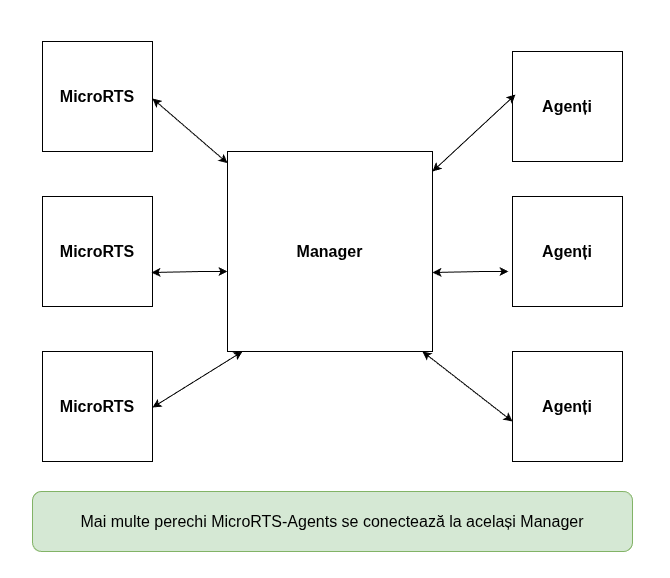
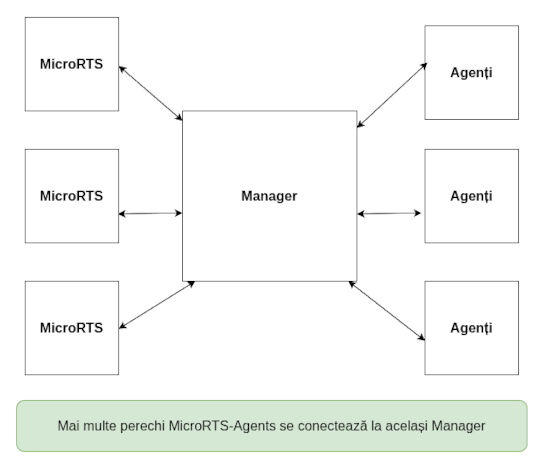
Updated IdeiDeBaza.tex and MicroRTS-Agents_Pair_Multiple_Instances.png

diff --git a/docs/Notes/tex/IdeiDeBaza.tex b/docs/Notes/tex/IdeiDeBaza.tex
@@ -3,11 +3,14 @@
 
 % Packages
 \usepackage{hyperref}
+\usepackage{color}
 \usepackage{graphics}
 \graphicspath{ {../images/} }
 
+% Title & author
 \title{Idei De bază pentru teza de Dizertație}
 \author{Marius-Vlad Dumitru}
+
 % Document
 \begin{document}
 \maketitle
@@ -21,7 +24,7 @@ Am fost mereu pasionat de jocurile video, iar RL/DRL se pretează pentru așa ce
 
 Prin urmare am intenționat să dezvolt agenți RL/DRL pentru un joc video.
 
-Prima provocare a fost alegera unui joc.
+Prima provocare a fost alegerea unui joc.
 
 \section{Alegerea Jocului}
 M-am orientat către un joc de strategie, de tip RTS(Real Time Strategy), întrucât acest tip de joc se pretează pentru studiul RL/DRL, iar personal am jucat câteva jocuri de strategie precum Starcraft, Starcraft 2, Warcraft 3, Age of Empires, etc.
@@ -38,63 +41,245 @@ Jocul pe care l-am ales să îl folosesc în experimente este MicroRTS, versiune
 
 Am ales acest joc din următoarele motive:
 \begin{enumerate}
-\item \textbf{Este mai simplu din punct de vedere al RL/DRL. Nu este la fel de complex precum Starcraft/Starcraft 2/Warcraft 3}. Fiind mai simplu, este mai ușor de lucrat cu el și posibilitatea de a greși este mai mică. Spațiile alea (acțiuni, stări, etc.) sunt mult mai mici față de Warcraft 3/Starcraft/Starcraft2.
-\item Deși mai simplu decât jocurile Blizzard, este "good enough" de complex pentru experimente de tip RL/DRL.
-\item Există paper-uri publicate folosing MicroRTS.
-\item Este open-source, deci codul sursă este disponibil și este permisă modificarea și redistribuția sa.
-\item Are deja boți predefiniți în joc pe care îi pot folosi.
-\item Este special construit pentru experimente de tip RL/DRL.
+    \item \textbf{Este mai simplu din punct de vedere al RL/DRL. Nu este la fel de complex precum Starcraft/Starcraft 2/Warcraft 3}. Fiind mai simplu, este mai ușor de lucrat cu el și posibilitatea de a greși este mai mică. Spațiile alea (acțiuni, stări, etc.) sunt mult mai mici față de Warcraft 3/Starcraft/Starcraft2.
+
+    \item Deși mai simplu decât jocurile Blizzard, este "good enough" de complex pentru experimente de tip RL/DRL.
+
+    \item Există paper-uri publicate folosind MicroRTS.
+
+    \item Este open-source, deci codul sursă este disponibil și este permisă modificarea și redistribuția sa.
+
+    \item Are deja boți predefiniți în joc pe care îi pot folosi.
+
+    \item Este special construit pentru experimente de tip RL/DRL.
 \end{enumerate}
 
 \section{Scopul Final}
 Urmăresc să studiez partea de RL/DRL prin efectuarea de diverse experimente folosind MicroRTS si agent de Rl/DRL care să joace meciuri în acest joc.
 
-Deci trebuie să efectuez diverse experimente.
+Prin urmare, este nevoie să efectuez diverse experimente.
+
+\section{Ce este un experiment}
+
+Un experiment înseamnă: \textbf{\color{red}{Unul sau mai multe meciuri de MicroRTS, jucate fie Agenți-Agenți, fie Agenți-AI default din joc, în diverse configurații.} }\\
+
+\underline{Parametrii de configurare ai unui experiment sunt}:
+\begin{enumerate}
+    \item \textbf{ Numele experimentului }. Acesta reprezintă si un ID care identifică unic experimentul, de tip string. Este obligatorie precizarea unui nume al experimentului, altfel sistemul dă eroare pentru că el identifică unic experientul.
+
+    \item \textbf{ Numărul de meciuri jucate în cadrul experimentului }. Este un număr întreg, $>=1$ (valoarea default 1).
+
+    \item \textbf{ Configurația proprie a fiecărui meci }.
+\end{enumerate}
+
+\underline{Parametrii de configurare ai unui meci sunt}:
+\begin{enumerate}
+    \item \textbf{ Numărul de jucători }(Număr întreg, $>=2$, valoarea default 2):
+
+    Momentan jocul este hardcodat pentru 2 jucători.
+
+    Fă lucrurile să funcționeze pentru 2 jucători și DACA MAI RĂMÂNE TIMP, fă modificările necesare pentru mai mult de 2 jucători.
+
+    Menține această idee, numărul de jucători, ca parametru pentru experimente, chiar dacă el va fi întotdeauna 2.
+
+    \item \textbf{Jucătorii în sine - cine sunt jucătorii ??}
+
+    Indică, în clar, cine este fiecare jucător în parte. Un jucător poate fi un agent dezvoltat în cadrul proiectului SAU un AI default din joc.
+
+    Dacă un jucător este AI-ul default din joc, gestionarea sa nu mai este făcută de modulul "Agenți" ci de Manager.
+
+    \item \textbf{ Harta}:
+
+        Harta este definită ca grid(celule).
+
+        O celulă din hartă poate avea 2 stări:
+        \begin{itemize}
+            \item \textbf{liberă}: Poate fi tranzitată de către o unitate a oricărui jucător, oricare din jucători poate construi o clădire proprie pe ea, oricare jucători pot construi zid pe ea(dacă au această posibilitate).
+
+            \item \textbf{ocupată}: Nu poate fi tranzitată de nicio unitate, conține o clădire, conține o unitate, conține un zid.
+        \end{itemize}
+
+        Zidurile de pe hartă nu permit tranzitarea de către unități și construcția de noi clădiri în interiorul celulelor pe care le ocupă.
+
+        O singură celulă poate fi ocupată doar de o singură entitate. Nu poate fi ocupată de două entități simultan. Prin entitate se înțelege zid, clădire, unitate.
+
+        Fiecare celulă este identificabilă prin linia și coloana sa, prin urmare o poziție este identificabilă prin linia și coloana sa, linia i, coloana j.
+
+        nr-cel-orizontală, nr întreg, $>=1$, nr-cel-verticală, nr întreg, $>=1$.
+
+        Dimensiunea hărții este exprimată în numărul de celule pe orizontală și numărul de celule pe verticală, nr-cel-orizontală x nr-cel-verticală.
+
+        Dimensiunea minimă a unei hărți: 1 x 1 (o singură celulă)
+
+        \textbf{Parametrii unei hărți sunt}:
+        \begin{enumerate}
+            \item \textbf{Numele Hărții}.
+
+                Este un string. Trebuie obligatoriu precizat altfel sistemul dă eroare.
+
+            \item \textbf{Numele fișierului hărții (inclusiv extensia)}.
+
+                Este un string. Trebuie obligatoriu precizat alfel sistemul dă eroare.
+
+            \item \textbf{Calea absolută către fișierul hărții (inclusiv numele fișierului hărții - exprimat anterior)}.
+
+                Este un obiect de tip pathlib.Path inițializat cu un string care conține calea absolută către fișierul hărții. Trebuie obligatoriu precizat altfel sistemul dă eroare.
+
+            \item \textbf{Dimensiunea hărții}.
+
+                Este nr-cel-orizontală x nr-cel-verticală.
+
+                Stocat ca un tuplu de 2 int-uri, nr întregi $>=1$. Le stochezi separat și pe cele 2 int-uri și cu ele formezi tuplul, (nr-cel-orizontală, nr-cel-verticală).
+
+                \underline{nr-cel-orizontală}: numărul de celule pe orizontală, nr întreg, $>=1$
+
+                \underline{nr-cel-verticală}: numărul de celule pe orizontală, nr întreg, $>=1$
+
+                Daca valorile nu sunt precizate, se consideră valoarea default 1.
+
+            \item \textbf{Configurația hărții }:
+                \begin{enumerate}
+                    \item \textbf{Pozițiile de la începutul meciului ale}:
+                    \begin{itemize}
+                        \item nodurilor de resurse.
+
+                        \item zidurilor.
+
+                        \item clădirilor inițiale ale jucătorilor.
+
+                        \item unităților inițiale jucătorilor.
+                    \end{itemize}
+
+                    \item \textbf{Valorile inițiale pentru}:
+                          \begin{itemize}
+                            \item Fiecare nod de resurse în parte. (câte resurse are fiecare nod în parte.). Probabil număr întreg pozitiv $>=1$, dar verifica în cod.
+
+                            \item Toate atributele clădirilor inițiale ale jucătorilor. (health, armor, etc. - nu stiu încă cât de mult se aplică dar sigur sigut trebuie să fie.) . Probabil numere întregi pozitive $>=1$, verifică în cod
+
+                            \item Toate atributele unităților inițiale ale jucătorilor. (health, mana, attack damage, attack speed, armor, etc. - la fel nu stiu cat de mult se aplica dar sigur trebuie să fie.). Probabil numbere întregi pozitive $>=1$, verifică în cod.
+                          \end{itemize}
+                \end{enumerate}
+        \end{enumerate}
+
+    \item \textbf{Win Conditions - Condițiile de câștig ale meciului}
+
+        Trebuiesc precizate obligatoriu pentru meciul curent altfel sistemul dă eroare.
+
+        Pot fi una sau mai multe.
+
+        Se vor folosi din constrângeri prin crearea unuia sau mai multe grupuri de constrângeri de "Win Conditions".
+
+        Cu alte cuvinte, "Win Conditions" sunt constrângeri care spun ce trebuie făcut de către jucători pentru a câștiga meciul.
+
+        Fiind un grup de constrângeri, pentru câștigarea meciului, trebuiesc îndeplinite toate condițiile din grup.
+
+        Dacă nu sunt îndeplinite toate condițiile sau condiția din grup atunci meciul se consideră pierdut, în caz contrar meciul se consideră câștigat.
+
+    \item \textbf{Constrângerea sau grupul de constrângeri aplicabile asupra meciului curent}.
+
+        Cu alte cuvinte, pentru fiecare meci, în parte, din experiment, trebuie precizat în clar ori o constrângere individuală ori un grup de constrângeri.
+
+        Nu este obligatoriu ca un meci să aibă precizate constrângeri dar este obligatoriu ca el să aibă precizate "Win conditions"
+
+\end{enumerate}
+
+Experimentele vor fi stocate sub formă de fișier .json.
+
+\section{Constrângeri}
+O constrângere înseamnă o singură condiție(limitare), impusă asupra:
+\begin{itemize}
+    \item Unui singur jucător.
+    \item Mai multor jucători.
+    \item Tuturor jucătorilor.
+    \item Hărții.
+\end{itemize}
+
+Constrângerile pot fi grupate în grupuri. Un grup de constrângeri poate conține una sau mai multe constrângeri individuale.
+
+În cadrul experimentelor, o singură constrângere individuală sau un singur grup de constrângeri pot fi aplicate asupra unui singur meci.
+
+Pentru un grup de constrângeri, toate constrângerile componente ale grupului trebuiesc îndeplinite cumulativ, nu în același timp.
+
+La modul gene
+
+Constrângerile unui grup de constrângeri nu trebuie să fie în conflict între ele.
+
+Exemplu de constrângeri individuale:
+\begin{itemize}
+\item Limită de timp pentru unul/mai mulți/toți jucătorii.
+\end{itemize}
 
 \section{Setup-ul experimental}
-\subsection{Ingredientele Setup-ului experimental}
-Setup-ul experimental este format din 3 ingrediente:
+\subsection{Elementele Setup-ului experimental}
+Setup-ul experimental este format din 3 elemente:
 \begin{enumerate}
 \item \textbf{Jocul MicroRTS sub formă de fișier .jar(MicroRTS.jar)}
+
 \item \textbf{Managerul}
+
 \item \textbf{Agenții}
 \end{enumerate}
 
-Cele 3 elemente ale setup-ului experimental comunică între ele prin rețea, adică protocolul TCP/UDP/TCP+UDP-IP (nu știu acum daca folosesc doar TCP, doar UDP sau TCP+UDP, dar știu sigur că vreau ca cele 3 elemente să comunice exclusiv prin rețea), pe baza modelului \textbf{client-server}, folosind sockets.
+Fiecare din cele 3 elemente ale setup-ului experimental comunică cu celelalte(exteriorul) numai prin rețea(TCP/UDP/TCP+UDP și IP. Nu știu acum dacă TCP, UDP, TCP+UDP).
 
-\includegraphics{ElementsCommunication.png}
+\includegraphics{ElementsCommunication}
 
-Din cauza faptului că cele 3 elemente comunică între ele prin rețea(TCP/UDP + IP), putem avea mai multe instanțe de MicroRTS-Agenți, ele formând perechi.
+Agenții rulează \textbf{OBLIGATORIU} pe un server separat, cu GPU, fie în Google Colab, fie pe un server propriu.
 
-Mai multe perechi MicroRTS-Agenti se pot conecta la același Manager pentru a rula, în paralel, mai multe experimente.
+MicroRTS și Managerul rulează pe același server sau fiecare separat pe alt server.
 
-Instanțele de perechi MicroRTS-Agenți nu fac schimb de informații între ele.
-
-Este un plan foarte ambition sa am multe instanțe de perechi MicroRTS-Agenți rulând în paralel. Este suficient să fac lucurile să meargă pentru o singură pereche MicroRTS-Agenți.
-
-% E o imagine care descrie treaba asta, vezi MicroRTS-Agents_Pair_Multiple_Instances.png.
-
-
-% Descrierea celor 3 elemente este aici, in acest enumerate.
-% Doar descriere succinta, ideile de bază
+Prin urmare, din punct de vedere al serverului(calculatorului) unde rulează cele 3 componente:
 \begin{enumerate}
-\item \textbf{Jocul MicroRTS.}
-
-Scurta Descriere MicroRTS
-
-\item \textbf{Managerul}
-
-Scurta Descriere Manager
-
-\item \textbf{Agenții}
-
-Scurta Descriere Agenti
+    \item Agenții rulează întotdeauna pe un server separat, altul decât cel/cele pe care se află celelalte 2 componente, OBLIGATORIU cu GPU. Acesta poate fi Google Colab sau server propriu.
+    \item MicroRTS și Managerul rulează pe același server, dar, din cauza folosirii TCP/UDP/IP, ar putea rula fiecare pe câte un server separat. Nu este neapărat nevoie de GPU (revin aici dacă este nevoie).
 \end{enumerate}
 
-% Some ideas that i don't want to forget
-%Aici e ideile mari boss
-%uite niste idei noi:
-%Suna misto:
-%Win Condition/ Win conditions
-%Constraints(constrangeri)
+Din cauza faptului că cele 3 elemente comunică între ele prin rețea(TCP/UDP + IP), putem avea mai multe instanțe de MicroRTS și mai multe instanțe de Agenți, ele formând perechi.
+
+Toate instanțele de MicroRTS și toate instanțele de Agenți se conectează la aceeași instanță de Manger, conform pozei pe care nu o pot pune în acest document pt. ca e prea mare, poza cu numele image/MicroRTS-Agents-Pair-Multiple-Instances.png.
+
+Pentru un experiment, indiferent câte configurații ale, o singură instanță de MicroRTS se împerechează(în teză poate e mai bine să scrii asociază) cu o singură instanță de Agenți.
+
+Instanțele de perechi MicroRTS-Agenți nu fac schimb de informații între ele, sunt izolate între ele.
+
+Este un plan foarte ambițios sa am multe instanțe de perechi MicroRTS-Agenți rulând în paralel.
+
+Este suficient să fac lucrurile să meargă pentru o singură pereche MicroRTS-Agenți, dar, pune te rog, ca parametru, numărul de perechi de instanțe MicroRTS-Agenți în cod, chiar daca el va avea întotdeauna valoarea 1.
+
+%\begin{enumerate}
+%    % MicroRTS
+%    \item \textbf{Jocul MicroRTS.}
+%        \begin{itemize}
+%            \item Jocul în sine, format .jar. Toate clasele sunt comprimate într-un singur fișier .jar
+%            \item Toată comunicarea cu exteriorul se face prin intermediul unui client intern TCP(UDP)/IP care se conectează la Manager.
+%            \item Executa simularea meciului de MicroRTS.
+%            \item Execută comenzile date de Manager(daca există).
+%            \item Execută comenzile date de jucători(agenți) pentru a juca meciul.
+%            \item Oferă agenților(jucătorilor) informații despre situația curentă de pe hartă.
+%            \item Oferă funcționalitate de Map Editor pentru crearea și editarea hărților. (probabil trebuie implementată de mine).
+%            \item Oferă jucători virtuali nativi(AI-urile din joc) scriși în java de care mă pot folosi. Vezi fișierele modului ai din joc + fișierele bin/lib/bots.
+%            \item În principiu rulează pe același calculator(server) ca si Managerul. Din cauza clientului intern de TCP(UDP)/IP, nimic nu ar împiedica ca acesta să ruleze pe serverul său propriu, separat de celelalte componente
+%        \end{itemize}
+%
+%    % Manager
+%    \item \textbf{Managerul}
+%        \begin{itemize}
+%            \item Reprezintă partea de comandă și control a proiectului.
+%            \item Oferă un server TCP(UPD)/IP intern la care se conectează toate instanțele de MicroRTS și Agenți.
+%            \item Formează perechi instanță MicroRTS <-> instanță
+%        \end{itemize}
+%
+%    % Agenti
+%    \item \textbf{Managerul}
+%        \begin{itemize}
+%            \item item1
+%        \end{itemize}
+%\end{enumerate}
+%
+%% Some ideas that i don't want to forget
+%%Aici e ideile mari boss
+%%uite niste idei noi:
+%%Suna misto:
+%%Win Condition/ Win conditions
+%%Constraints(constrangeri)
 \end{document}
